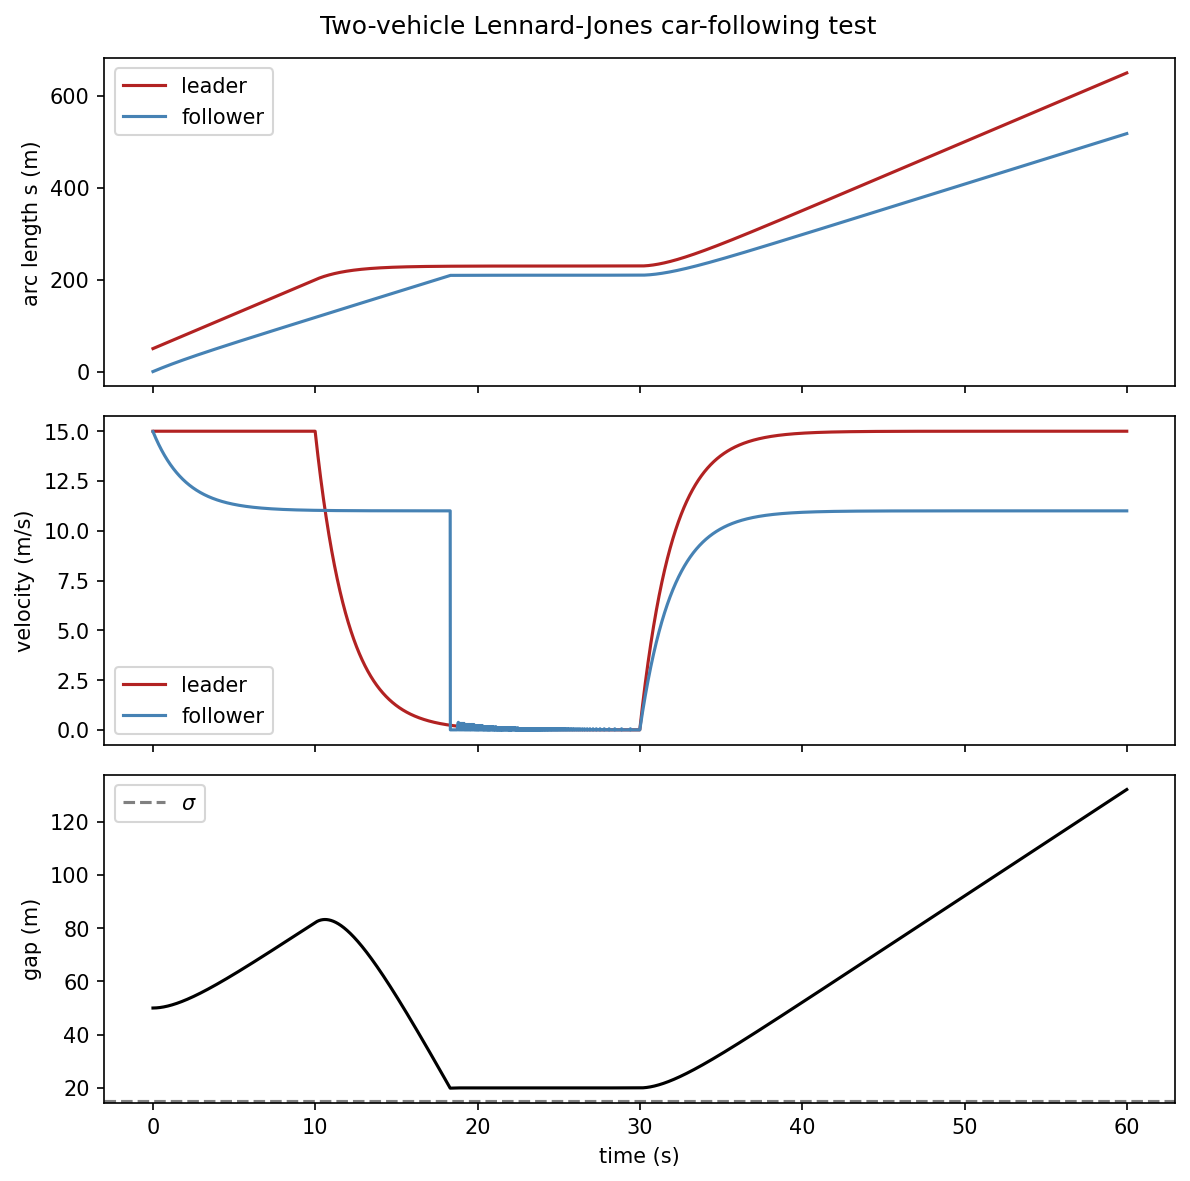
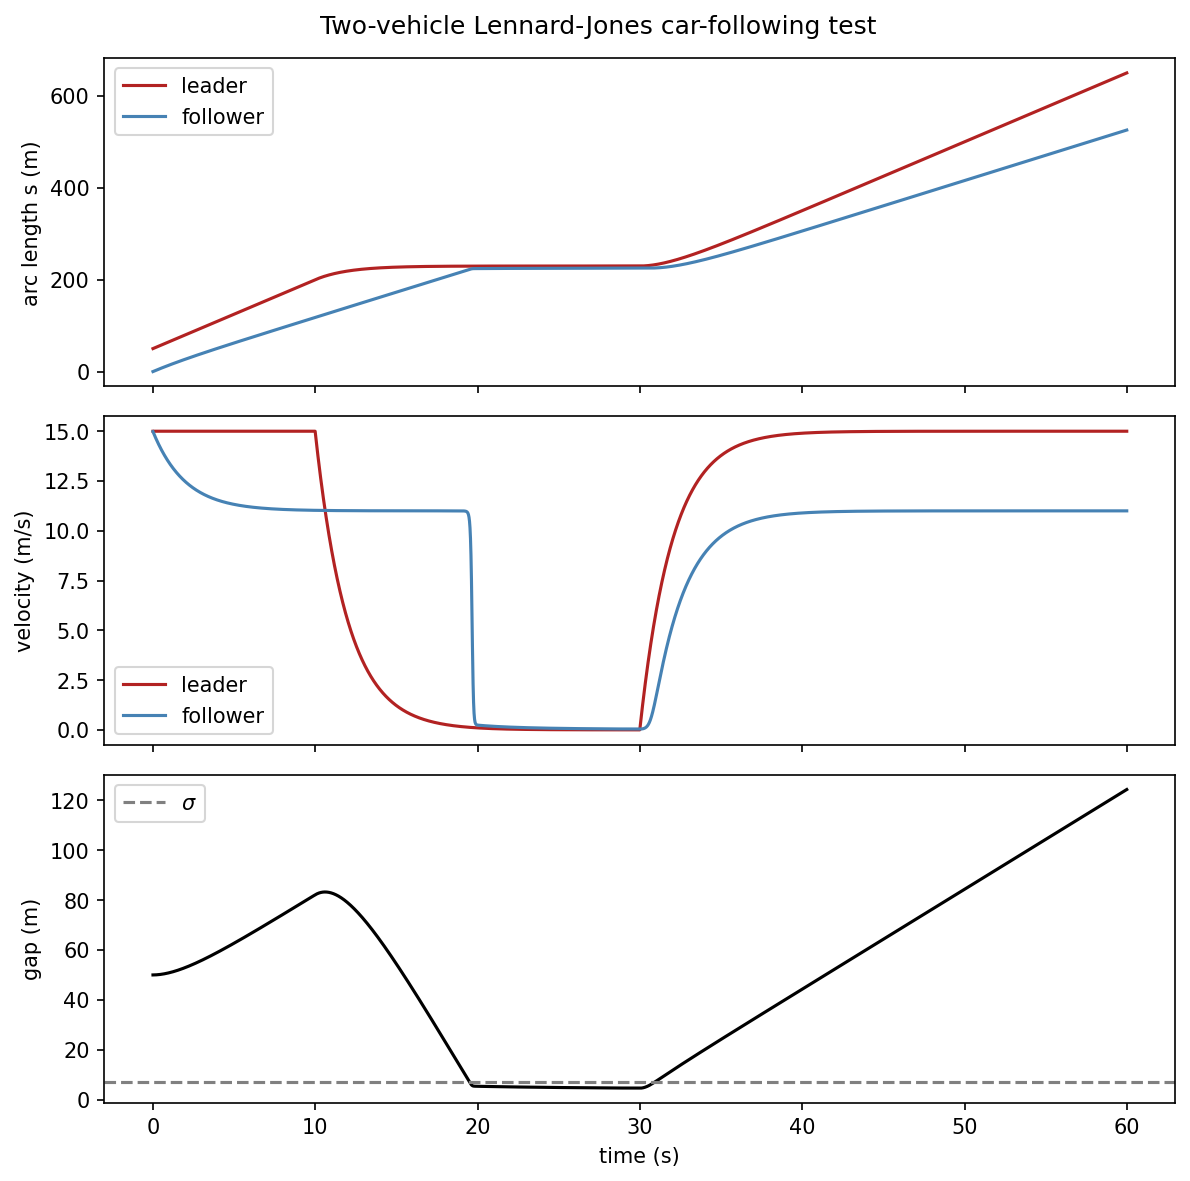
Final-review fixes: sigma line, dt sentence, github URL, conclusion wording
- step1_two_cars: dashed sigma line now at sigma=7 (was 15), so the figure
  actually shows the Lennard-Jones equilibrium gap as the report describes.
- sim_core.integrate: revert experimental min_gap=20 floor so step1 honestly
  demonstrates the LJ brake (the floor was masking what the figure caption
  claims). integrate is only used by step1; nothing else depends on it.
- report.tex method 2.2: dt sentence now matches what the analysis scripts
  actually run (dt=0.05 s in both systems; 0.1 s noted as a verification).
- report.tex conclusion 4.1: clarify that we cover the six main analyses
  plus the first advanced (opposite-direction traffic) item.
- report.tex appendix: github URL points at the actual repo
  (PHYC2050_Final_Project, not PHYC2050_TrafficSim).

diff --git a/report.tex b/report.tex
@@ -108,7 +108,7 @@ Each car has a position $s$ along its road, a longitudinal velocity $v$, and a t
     a = \frac{v_{\text{target}} - v}{\tau} \;-\; \left(\frac{\sigma}{R}\right)^{12} v ,
     \label{eq:lj}
 \end{equation}
-where $R$ is the gap to the obstacle ahead -- either a leading car or, when applicable, a stop line. The first term is a relaxation toward target speed; the second is the Lennard-Jones brake from the project handout, which grows extremely quickly when $R$ falls below $\sigma$. We integrate forward in Euler steps of $\Delta t = 0.05$~s for the lights system and $\Delta t = 0.1$~s for the roundabout. Velocities are clipped at zero so cars never reverse.
+where $R$ is the gap to the obstacle ahead -- either a leading car or, when applicable, a stop line. The first term is a relaxation toward target speed; the second is the Lennard-Jones brake from the project handout, which grows extremely quickly when $R$ falls below $\sigma$. We integrate forward in Euler steps of $\Delta t = 0.05$~s; we also re-ran the roundabout sweep at $\Delta t = 0.1$~s and confirmed the conclusions are unchanged. Velocities are clipped at zero so cars never reverse.
 
 \subsection{Roundabout and traffic-light setup}
 Figure~\ref{fig:setup} shows the geometry of both intersections.
@@ -260,7 +260,7 @@ At low density both schemes pass nearly every car that arrives. Above $\sim 0.15
 \section{Conclusion and Discussion}\label{sec:conclusion}
 
 \subsection{Summary of findings}
-The simulation cleanly answers each of the project's six suggested analysis questions.
+The simulation cleanly answers each of the project's six main suggested analysis questions, and partially the first advanced question (opposite-direction traffic, supported via the \texttt{opposite=True} flag of \texttt{run\_roundabout\_sim}).
 \begin{enumerate}
     \item \textbf{Roundabout passing time at moderate density.} At $r_H = r_V = 0.3$~cars/s, the roundabout mean passing time is $\sim 52$~s overall ($H = 40$~s, $V = 75$~s), demonstrating an immediate $\sim 35$~s asymmetry.
     \item \textbf{Density dependence.} Mean passing time grows monotonically with density on the roundabout, sharply steepening above $r \approx 0.2$ as the V-arm queue overflows the simulated road.
@@ -302,7 +302,7 @@ The most physically interesting result is the $H - V$ bias on the roundabout (Fi
 \section{Code listings}\label{sec:appendix-code}
 
 The full project repository is hosted at\\
-\url{https://github.com/IsaacMacLean/PHYC2050_TrafficSim}.
+\url{https://github.com/IsaacMacLean/PHYC2050_Final_Project}.
 
 \subsection{Core simulator}
 \lstinputlisting[style=python, caption={\texttt{code/sim\_core.py}: 1D Lennard-Jones car-following, traffic signal, and lane.}]{code/sim_core.py}

diff --git a/code/sim_core.py b/code/sim_core.py
@@ -17,17 +17,10 @@ def lj_brake(sigma, gap, vel):
     return -((sigma / g) ** 12) * vel
 
 
-def integrate(veh, dt, blocker_s, min_gap=20.0):
+def integrate(veh, dt, blocker_s):
     drive = (veh.v_target - veh.vel) / veh.relax
-    if blocker_s is None:
-        brake = 0.0
-        gap = float("inf")
-    else:
-        gap = blocker_s - veh.s
-        brake = lj_brake(veh.sigma, gap, veh.vel)
+    brake = 0.0 if blocker_s is None else lj_brake(veh.sigma, blocker_s - veh.s, veh.vel)
     veh.vel = max(0.0, veh.vel + (drive + brake) * dt)
-    if gap < min_gap:
-        veh.vel = 0.0
     veh.s += veh.vel * dt
 
 

diff --git a/code/step1_two_cars.py b/code/step1_two_cars.py
@@ -40,7 +40,7 @@ def main():
     axes[1].legend()
 
     axes[2].plot(times, gap, color="black")
-    axes[2].axhline(15.0, ls="--", color="gray", label=r"$\sigma$")
+    axes[2].axhline(7.0, ls="--", color="gray", label=r"$\sigma$")
     axes[2].set_xlabel("time (s)")
     axes[2].set_ylabel("gap (m)")
     axes[2].legend()
